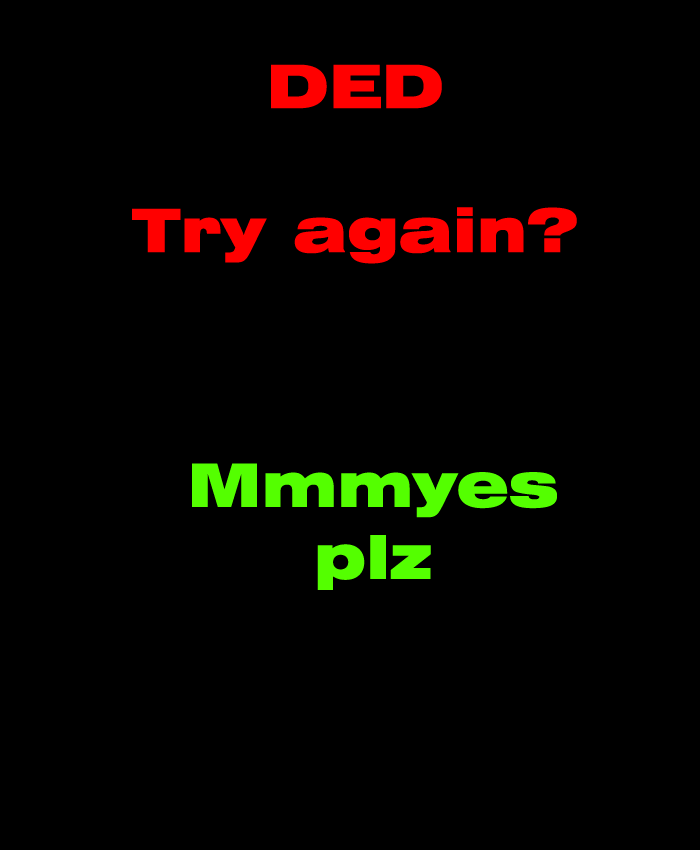
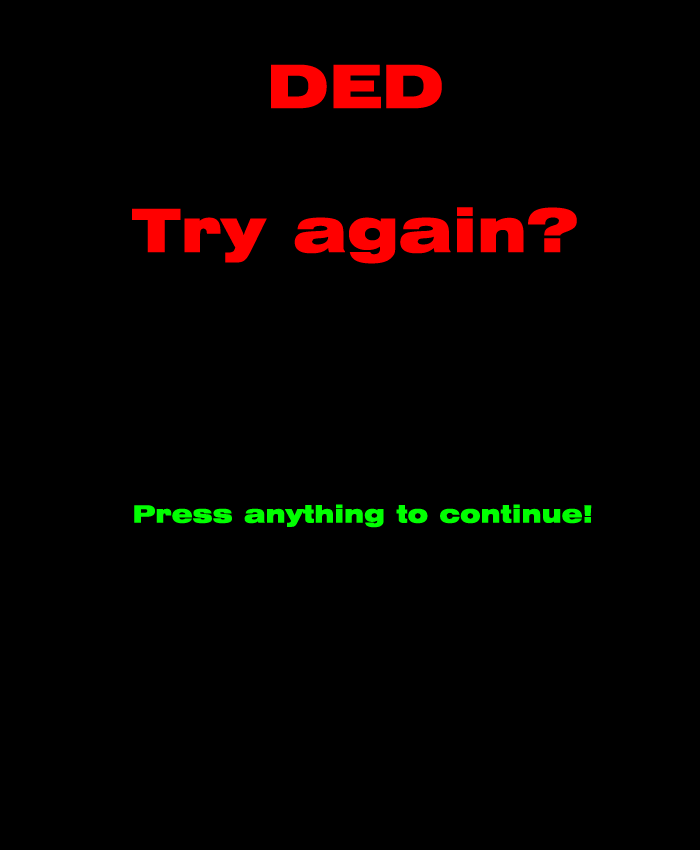
Player can attack now. But it doesn't do much as of now.

Changed region(s): [[0.18, 0.52, 0.84, 0.7035]]

diff --git a/Player.py b/Player.py
@@ -1,4 +1,6 @@
 import pygame, sys, math, time
+from Weapon import *
+
 
 class Player(pygame.sprite.Sprite):
     def __init__(self,  size=64, speed=0, maxSpeed=5, pos=[0,0], health=3):
@@ -25,10 +27,10 @@ class Player(pygame.sprite.Sprite):
         self.didBounceX = False
         self.didBounceY = False
 
-        self.hit = False
+        
         self.health = health
         self.living = True
-        self.attacking = False
+        
 
         self.frame = 0
         self.animationTimer = 0
@@ -40,8 +42,13 @@ class Player(pygame.sprite.Sprite):
 
         self.animate()
         
+        self.hit = False
         self.hitTimer = 0
         self.hitTimerMax = 1*60 #second * 60fps
+        
+        self.attacking = False
+        self.attackTimer = 0
+        self.attackTimerMax = .5*60 #second * 60fps
 
     def update(self, *args):
         screenSize = args[0]
@@ -54,6 +61,14 @@ class Player(pygame.sprite.Sprite):
             else:
                 self.hitTimer = 0
                 self.hit = False
+        
+        if self.attacking:
+            if self.attackTimer < self.attackTimerMax:
+                self.attackTimer += 1
+            else:
+                self.attackTimer = 0
+                self.attacking = False
+       
         if self.health <= 0:
             self.living = False    
         #self.screenCollide(screenSize)
@@ -153,6 +168,14 @@ class Player(pygame.sprite.Sprite):
         self.didBounceX = True
         self.speedy = 0
         self.didBounceY = True
+        
+    def attack(self):
+        if not self.attacking:
+            self.attacking = True
+            Weapon(self.rect.center, self.state)
+            self.speedx = 0
+            self.speedy = 0
+        
 
 
     def bugCollide(self, other):

diff --git a/Weapon.py b/Weapon.py
@@ -1,6 +1,27 @@
 import sys, pygame, math, random
 
 class Weapon(pygame.sprite.Sprite):
-    def __init__(self, pos):
+    def __init__(self, pos, direction):
         pygame.sprite.Sprite.__init__(self, self.containers)
+        
+        self.imageRight = pygame.image.load("Res/Player/WeaponRight.png")
+        self.imageLeft = pygame.image.load("Res/Player/WeaponLeft.png")
+        self.imageUp = pygame.image.load("Res/Player/WeaponUp.png")
+        self.imageDown = pygame.image.load("Res/Player/WeaponDown.png")
+        
+        if direction == "right":
+            self.image = self.imageRight
+            pos = [pos[0] + 35,
+                   pos[1] + 10]
+        elif direction == "left":
+            self.image = self.imageLeft
+            pos = [pos[0] - 35,
+                   pos[1] + 10]
+        self.rect = self.image.get_rect(center = pos)
+    
+    def update(self, *args):
+        attacking = args[2]
+        if not attacking:
+            self.kill()
+
     

diff --git a/LotSBeta.py b/LotSBeta.py
@@ -157,7 +157,9 @@ while True:
                 controls = False
                 end = True
 
-        all.update(gameSize, player.health)
+        all.update(gameSize, 
+                   player.health, 
+                   player.attacking)
 
         if player.screenCollide(gameSize):
             if player.rect.left <= 0:
@@ -215,7 +217,9 @@ while True:
         for event in pygame.event.get():
             if event.type == pygame.QUIT: sys.exit()
             if event.type == pygame.KEYDOWN:
-                sys.exit()
+                end = False
+                controls = True
+                menu = False
 
         all.update(size)
 
